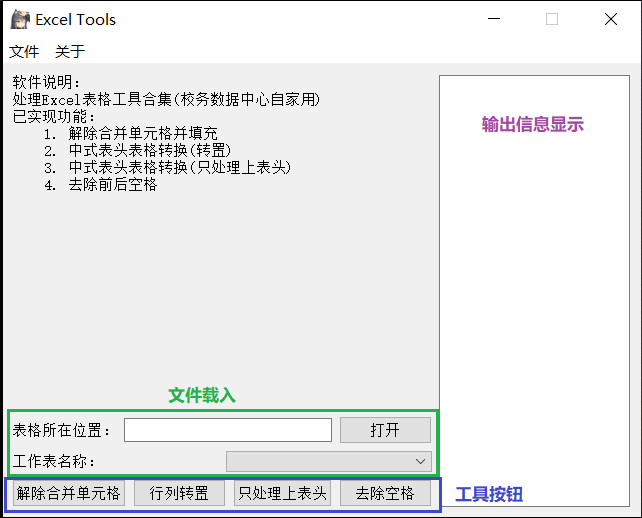
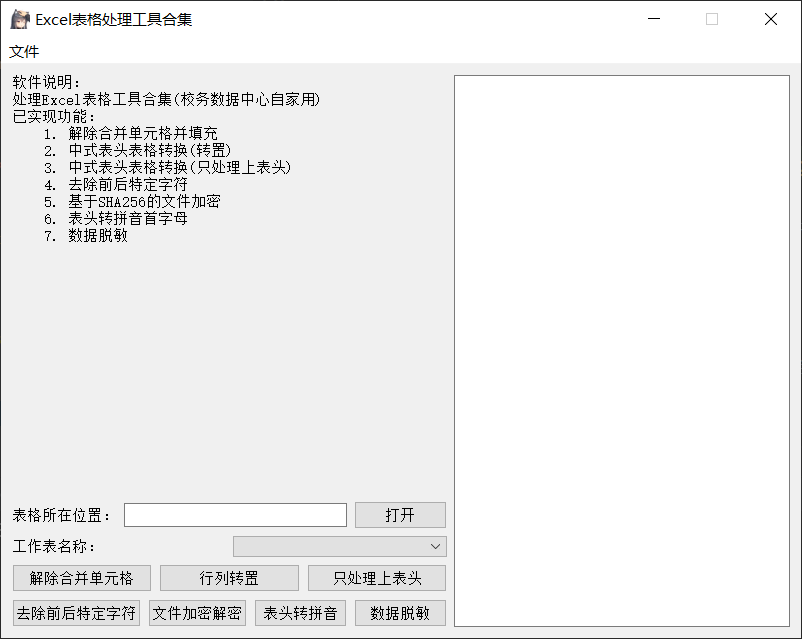
修改README

diff --git a/README.md b/README.md
@@ -1,6 +1,6 @@
 # 用Python处理Excel表格的小工具
 
-## 版本信息(2021-2-24发布)
+## V3.2版本信息(2021-9-17发布)
 
 - `Pyside2==5.15.1`
 - `Python==3.7.8`
@@ -17,7 +17,7 @@ pip install Pyside2==5.15.1 openpyxl==3.0.5 cryptography==3.4.7 pypinyin==0.41.0
 1. 解除合并单元格并填充
 2. 中式表头表格处理(转置)
 3. 中式表头表格处理(合并上表头)
-4. 去除多于字符
+4. 去除多余字符
 5. 基于SHA-256的文件加密解密
 6. 表头转拼音大写首字母
 7. 数值类型和日期类型数据脱敏
@@ -65,9 +65,39 @@ pip install Pyside2==5.15.1 openpyxl==3.0.5 cryptography==3.4.7 pypinyin==0.41.0
 
 ![转置后](./src/image/转置后.png)
 
-- **去除空格**
+- **去除多余字符**
 
-此工具将当前文件当前工作表的所有单元格去除前后空格
+此工具将当前文件当前工作表的所有单元格去除前后的多余字符
+
+输入参数：要去除的多余字符，如有多种需要去除的字符，不需要分隔
+
+下图为去除空格、井号、0
+
+![去除多余字符](./src/image/去除多余字符.PNG)
+
+- **表头转拼音**
+
+将中文表头转为拼音首字母大写
+
+- **基于SHA-256的文件加解密**
+
+对读取的文件进行加密或解密，加密和解密使用同一个界面
+
+![加解密](./src/image/加解密.PNG)
+
+读取原文件，输入密钥，点击加密则生成加密文件(后缀为.encrypt)
+
+读取加密文件(后缀为.encrypt)，输入密钥，点击解密则还原为原文件
+
+![加密文件](./src/image/加密文件.PNG)
+
+- **数据脱敏**
+
+对数值列、日期列进行脱敏
+
+分别输入要脱敏的数值列号和日期列号，空格分隔
+
+![脱敏](./src/image/数据脱敏.PNG)
 
 - **输出文件**
 
@@ -79,5 +109,9 @@ Mac OS下输出文件位置在`home`目录
 - 行列转置输出文件名为`原文件名_工作表名(转置).xlsx`
 - 处理上表头输出文件名为`原文件名_工作表名(只合并上表头).xlsx`
 - 去除空格输出文件名为`原文件名_工作表名_stripped.xlsx`
+- 表头转拼音输出文件名为`原文件名_工作表名_(表头转拼音).xlsx`
+- 数据加密后输出文件名为`原文件名.encrypt`
+- 解密后输出文件名为`源文件名_decrypt`
+- 数据脱敏输出文件名为`原文件名_工作表名(数据脱敏).xlsx`
 
 ## To-Do-List
